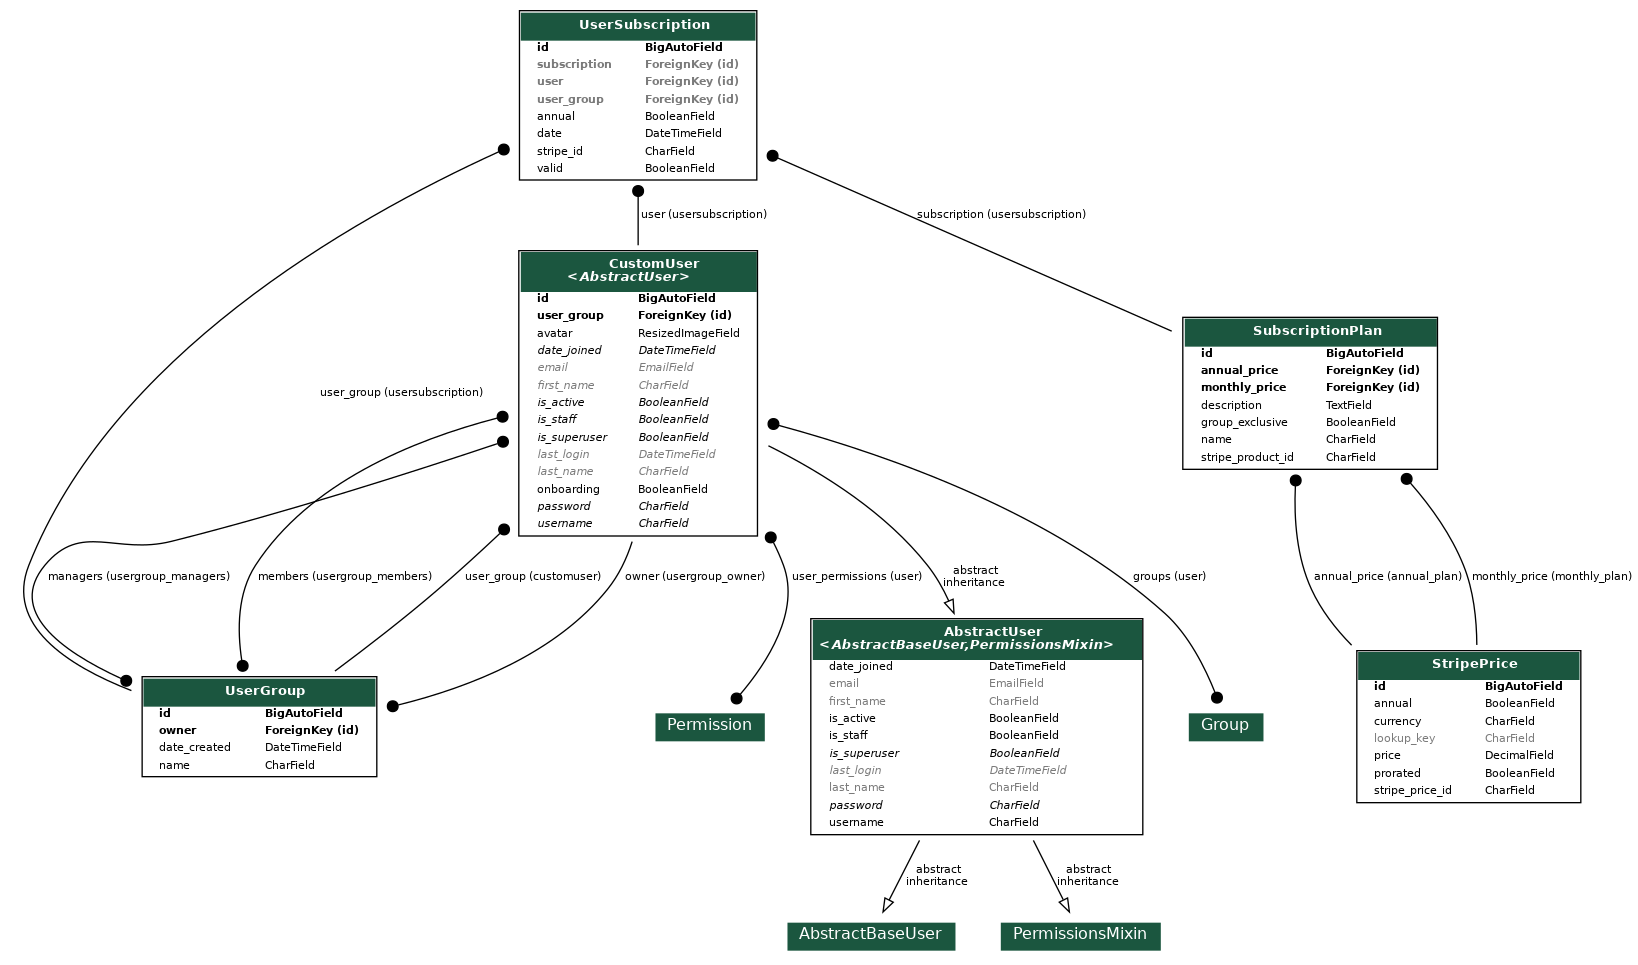
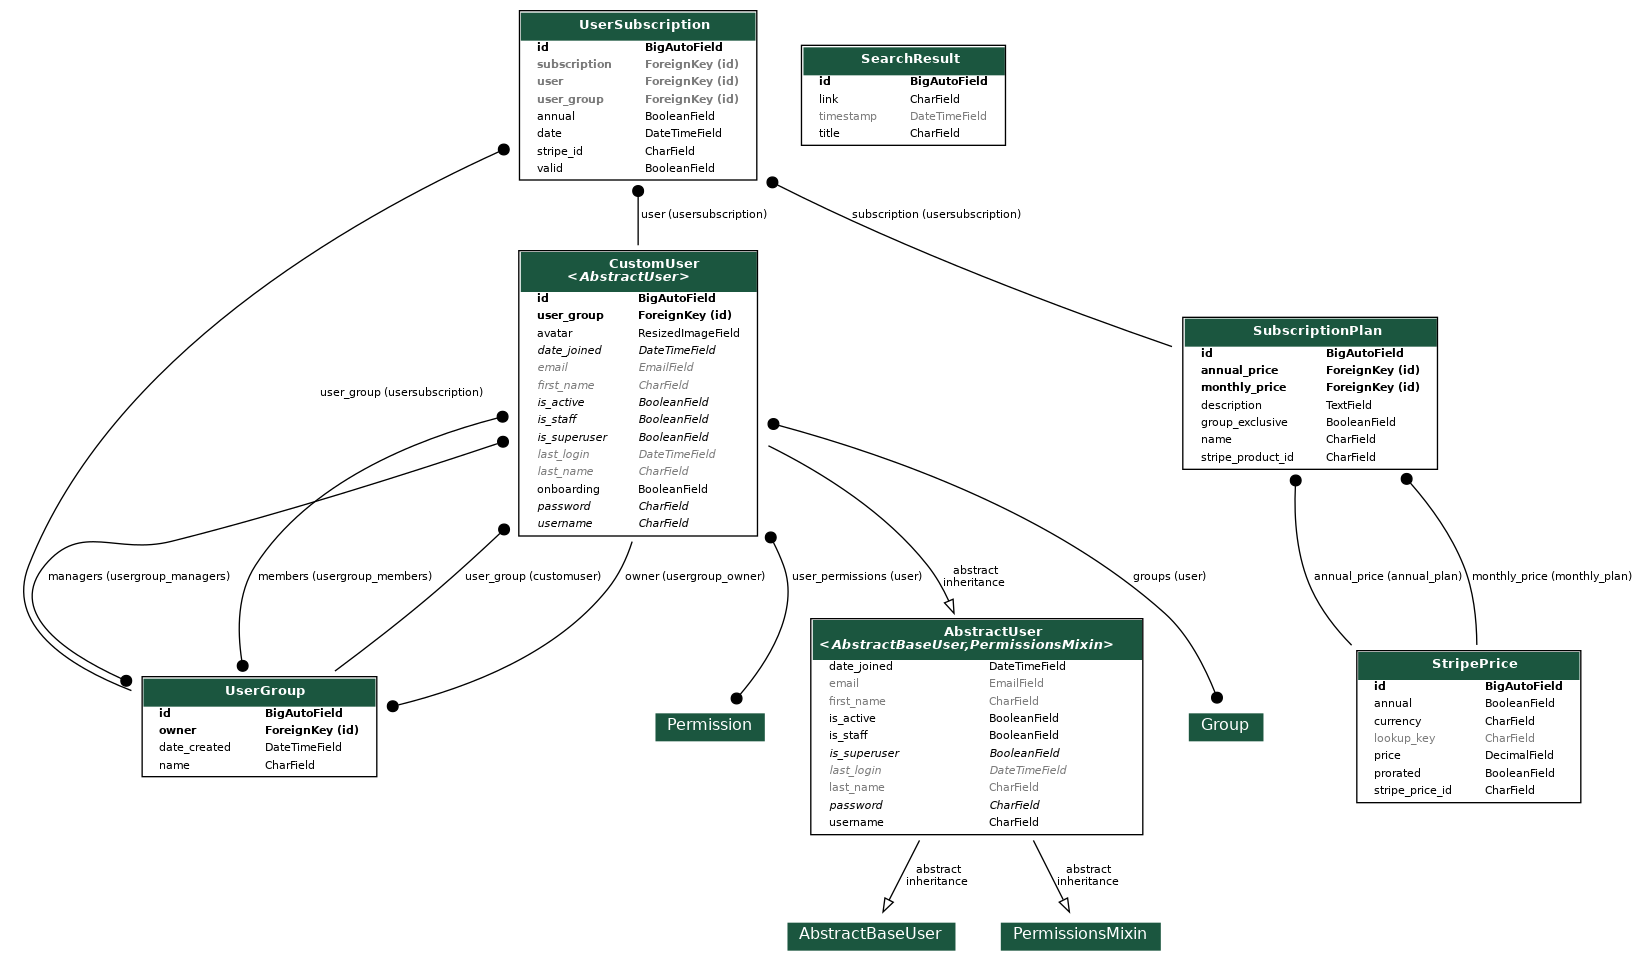
Update webdriver utility functions and add a sample celery task for scraping Google search

diff --git a/backend/webdriver/utils.py b/backend/webdriver/utils.py
@@ -3,9 +3,7 @@ Settings file to hold constants and functions
 """
 from selenium.webdriver.common.by import By
 from selenium.webdriver.common.keys import Keys
-import os
 from config.settings import get_secret
-from selenium.webdriver.common.by import By
 from selenium.webdriver.support.ui import WebDriverWait
 from selenium.webdriver.support import expected_conditions as EC
 from selenium.webdriver import FirefoxOptions
@@ -16,6 +14,8 @@ from config.settings import get_secret
 from twocaptcha import TwoCaptcha
 from whois import whois
 from whois.parser import PywhoisError
+import os
+import random
 
 
 def take_snapshot(driver, filename='dump.png'):
@@ -135,23 +135,19 @@ def setup_webdriver(driver_type="chrome", use_proxy=True, use_saved_session=Fals
     print(f'External IP: {ip_address}')
     return driver
 
+# These are  wrapper function for quickly automating multiple steps in webscraping (logins, button presses, text inputs, etc.)
+# Depending on your use case, you may have to opt out of using this
+
+
 # Function to get the element once it has loaded in
 
 
 def get_element(driver, by, key, hidden_element=False, timeout=8):
     try:
-        if by == "xpath":
-            by = By.XPATH
-        elif by == "css":
-            by = By.CSS_SELECTOR
-        elif by == "id":
-            by = By.ID
-        elif by == "tagname":
-            by = By.TAG_NAME
-        elif by == "name":
-            by = By.NAME
-        elif by == "classname":
-            by == By.CLASS_NAME
+        # Convert string-based locators to By objects (By.XPATH, By.CSS, etc.)
+        if isinstance(by, str):
+            by = getattr(By, by.upper())
+
         wait = WebDriverWait(driver, timeout=timeout)
         if not hidden_element:
             element = wait.until(
@@ -161,7 +157,37 @@ def get_element(driver, by, key, hidden_element=False, timeout=8):
                 (by, key)))
         return element
     except Exception:
+        dump_html(driver)
+        take_snapshot(driver)
+        driver.close()
+        driver.quit()
         raise Exception(f"Unable to get element of {by} value: {key}")
+
+
+def get_elements(driver, by, key, hidden_element=False, timeout=8):
+    try:
+        # Convert string-based locators to By objects (By.XPATH, By.CSS, etc.)
+        if isinstance(by, str):
+            by = getattr(By, by.upper())
+
+        wait = WebDriverWait(driver, timeout=timeout)
+
+        if hidden_element:
+            elements = wait.until(
+                EC.presence_of_all_elements_located((by, key)))
+        else:
+            visible_elements = wait.until(
+                EC.visibility_of_any_elements_located((by, key)))
+            elements = [
+                element for element in visible_elements if element.is_enabled()]
+
+        return elements
+    except Exception:
+        dump_html(driver)
+        take_snapshot(driver)
+        driver.close()
+        driver.quit()
+        raise Exception(f"Unable to get elements of {by} value: {key}")
 
 
 def execute_selenium_elements(driver, timeout, elements):
@@ -265,7 +291,7 @@ def solve_captcha(site_key, url, retry_attempts=3, version='v2', enterprise=Fals
         use_proxy = False
     if CAPTCHA_TESTING:
         print('Initializing CAPTCHA solver in dummy mode')
-        code = "12345"
+        code = random.randint()
         print("CAPTCHA Successful")
         return code
 
@@ -340,6 +366,7 @@ def save_browser_session(driver):
 
 
 def selenium_action_template(driver):
+    # Data that might need to be entered during webscraping
     info = {
         "sample_field1": "sample_data",
         "sample_field2": "sample_data",
@@ -350,7 +377,7 @@ def selenium_action_template(driver):
         {
             "name": "Enter data for sample field 1",
             "type": "input",
-            "input": "{first_name}",
+            "input": "{sample_field1}",
             # If a site implements canary design releases, you can place the ID for the element in the new design
             "default": {
                 # See get_element() for possible selector types
@@ -387,4 +414,55 @@ def selenium_action_template(driver):
                 element['input'] = str(value)
 
     # Execute the selenium actions
+    execute_selenium_elements(driver, 8, elements)
+
+# Sample task for Google search
+
+
+def google_search(driver, search_term):
+    info = {
+        "search_term": search_term,
+    }
+
+    elements = [
+        {
+            "name": "Type in search term",
+            "type": "input",
+            "input": "{search_term}",
+            "default": {
+                "type": "xpath",
+                "key": '//*[@id="APjFqb"]'
+            },
+            "failover": {
+                "type": "xpath",
+                "key": '//*[@id="APjFqb"]'
+            }
+        },
+        {
+            "name": "Press enter",
+            "type": "input_enter",
+            "default": {
+                "type": "xpath",
+                "key": '//*[@id="APjFqb"]'
+            },
+            "failover": {
+                "type": "xpath",
+                "key": '//*[@id="APjFqb"]'
+            }
+        },
+    ]
+
+    site_form_values = {}
+
+    for element in elements:
+        if 'input' in element and '{' in element['input']:
+            a = element['input'].strip('{}')
+            if a in info:
+                value = info[a]
+                if callable(value):
+                    if a not in site_form_values:
+                        site_form_values[a] = value()
+                    value = site_form_values[a]
+                element['input'] = str(value)
+
     execute_selenium_elements(driver, 8, elements)

diff --git a/backend/webdriver/tasks.py b/backend/webdriver/tasks.py
@@ -1,16 +1,43 @@
 from celery import shared_task
-from webdriver.utils import setup_webdriver, selenium_action_template
+from webdriver.utils import setup_webdriver, selenium_action_template, google_search, get_element, get_elements
+from selenium.webdriver.common.by import By
+from search_results.tasks import create_search_result
 
-# Sample Celery Selenium function
-# TODO: Modify this as needed
 
-
-@shared_task(autoretry_for=(Exception,), retry_kwargs={'max_retries': 6, 'countdown': 5})
+# Task template
+@shared_task(autoretry_for=(Exception,), retry_kwargs={'max_retries': 3, 'countdown': 5})
 def sample_selenium_task():
-    driver = setup_webdriver()
+
+    driver = setup_webdriver(use_proxy=False, use_saved_session=False)
+    driver.get("Place URL here")
     selenium_action_template(driver)
-    # Place any other actions here after Selenium is done executing
+
+    # TODO: Modify this as needed
 
     # Once completed, always close the session
+    driver.close()
+    driver.quit()
+
+# Sample task to scrape Google for search results based on a keyword
+
+
+@shared_task(autoretry_for=(Exception,), retry_kwargs={'max_retries': 3, 'countdown': 5})
+def simple_google_search():
+    driver = setup_webdriver(use_proxy=False, use_saved_session=False)
+    driver.get(f"https://google.com/")
+
+    google_search(driver, search_term="cat blog posts")
+
+    # Count number of Google search results
+    search_items = get_elements(
+        driver, "xpath", '//*[@id="search"]/div[1]/div[1]/*')
+
+    for item in search_items:
+        title = item.find_element(By.TAG_NAME, 'h3').text
+        link = item.find_element(By.TAG_NAME, 'a').get_attribute('href')
+
+        create_search_result.apply_async(
+            kwargs={"title": title, "link": link})
+
     driver.close()
     driver.quit()

diff --git a/backend/search_results/migrations/0001_initial.py b/backend/search_results/migrations/0001_initial.py
@@ -1,0 +1,23 @@
+# Generated by Django 5.0.6 on 2024-09-24 07:47
+
+from django.db import migrations, models
+
+
+class Migration(migrations.Migration):
+
+    initial = True
+
+    dependencies = [
+    ]
+
+    operations = [
+        migrations.CreateModel(
+            name='SearchResult',
+            fields=[
+                ('id', models.BigAutoField(auto_created=True, primary_key=True, serialize=False, verbose_name='ID')),
+                ('title', models.CharField(max_length=1000)),
+                ('link', models.CharField(max_length=1000)),
+                ('timestamp', models.DateTimeField(auto_now_add=True)),
+            ],
+        ),
+    ]

diff --git a/backend/config/settings.py b/backend/config/settings.py
@@ -111,7 +111,8 @@ INSTALLED_APPS = [
     'payments',
     'billing',
     'emails',
-    'notifications'
+    'notifications',
+    'search_results'
 ]
 
 if DEBUG:
@@ -393,5 +394,5 @@ CELERY_BEAT_SCHEDULER = 'django_celery_beat.schedulers:DatabaseScheduler'
 DATA_UPLOAD_MAX_NUMBER_FIELDS = 20480
 
 GRAPH_MODELS = {
-    'app_labels': ['accounts', 'user_groups', 'billing', 'emails', 'payments', 'subscriptions']
+    'app_labels': ['accounts', 'user_groups', 'billing', 'emails', 'payments', 'subscriptions', 'search_results']
 }

diff --git a/backend/search_results/tasks.py b/backend/search_results/tasks.py
@@ -1,0 +1,16 @@
+
+
+from celery import shared_task
+from .models import SearchResult
+
+
+@shared_task(autoretry_for=(Exception,), retry_kwargs={'max_retries': 0, 'countdown': 5})
+def create_search_result(title, link):
+    if SearchResult.objects.filter(title=title, link=link).exists():
+        return ("SearchResult entry already exists")
+    else:
+        SearchResult.objects.create(
+            title=title,
+            link=link
+        )
+        return f"Created new SearchResult entry titled: {title}"

diff --git a/backend/search_results/admin.py b/backend/search_results/admin.py
@@ -1,0 +1,10 @@
+from unfold.admin import ModelAdmin
+from django.contrib import admin
+from .models import SearchResult
+
+
+@admin.register(SearchResult)
+class SearchResultAdmin(ModelAdmin):
+    model = SearchResult
+    search_fields = ('id', 'title', 'link')
+    list_display = ['id', 'title']

diff --git a/backend/search_results/models.py b/backend/search_results/models.py
@@ -1,0 +1,7 @@
+from django.db import models
+
+
+class SearchResult(models.Model):
+    title = models.CharField(max_length=1000)
+    link = models.CharField(max_length=1000)
+    timestamp = models.DateTimeField(auto_now_add=True, editable=False)

diff --git a/backend/search_results/apps.py b/backend/search_results/apps.py
@@ -1,0 +1,6 @@
+from django.apps import AppConfig
+
+
+class SearchResultsConfig(AppConfig):
+    default_auto_field = 'django.db.models.BigAutoField'
+    name = 'search_results'
